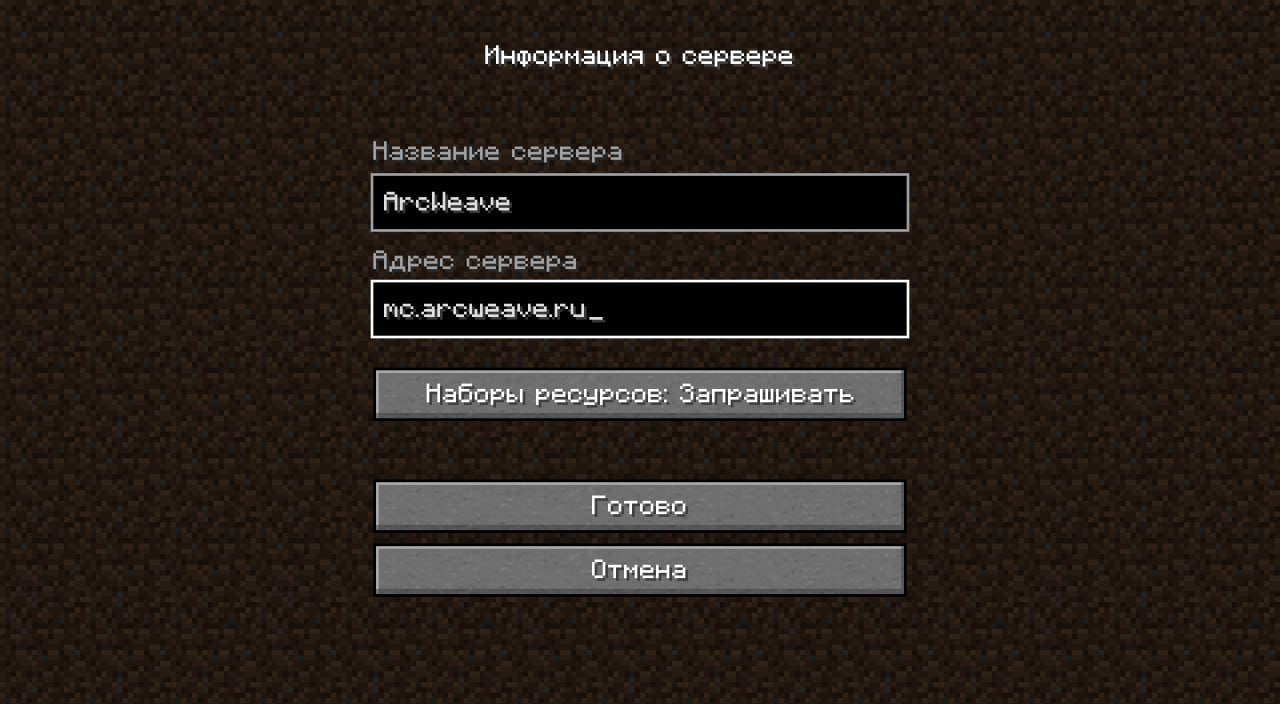
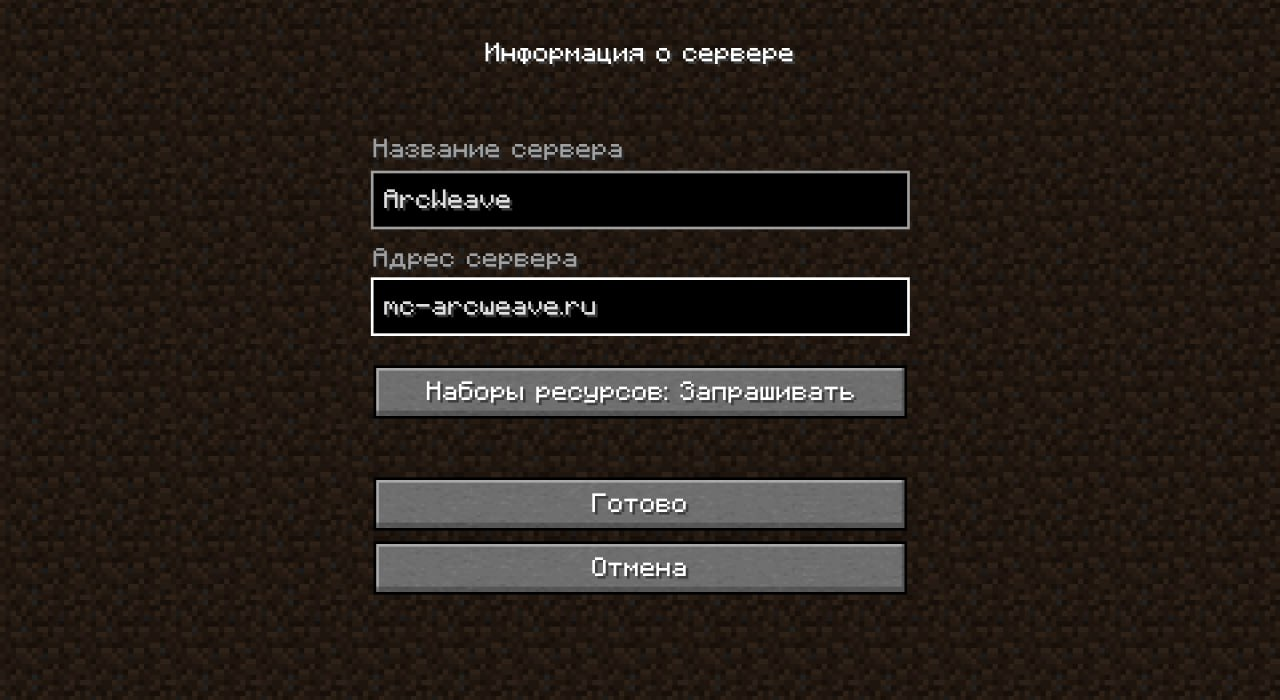
feat: Add "how to join" image and update landing page content.

diff --git a/index.html b/index.html
@@ -235,7 +235,7 @@
         const scrollIndicator = document.getElementById('scroll-indicator');
 
         function copyAddress() {
-            const address = "mc.arcweave.ru";
+            const address = "mc-arcweave.ru";
             navigator.clipboard.writeText(address).then(() => {
                 const btn = document.querySelector('.copy-btn');
                 const originalText = btn.innerText;
